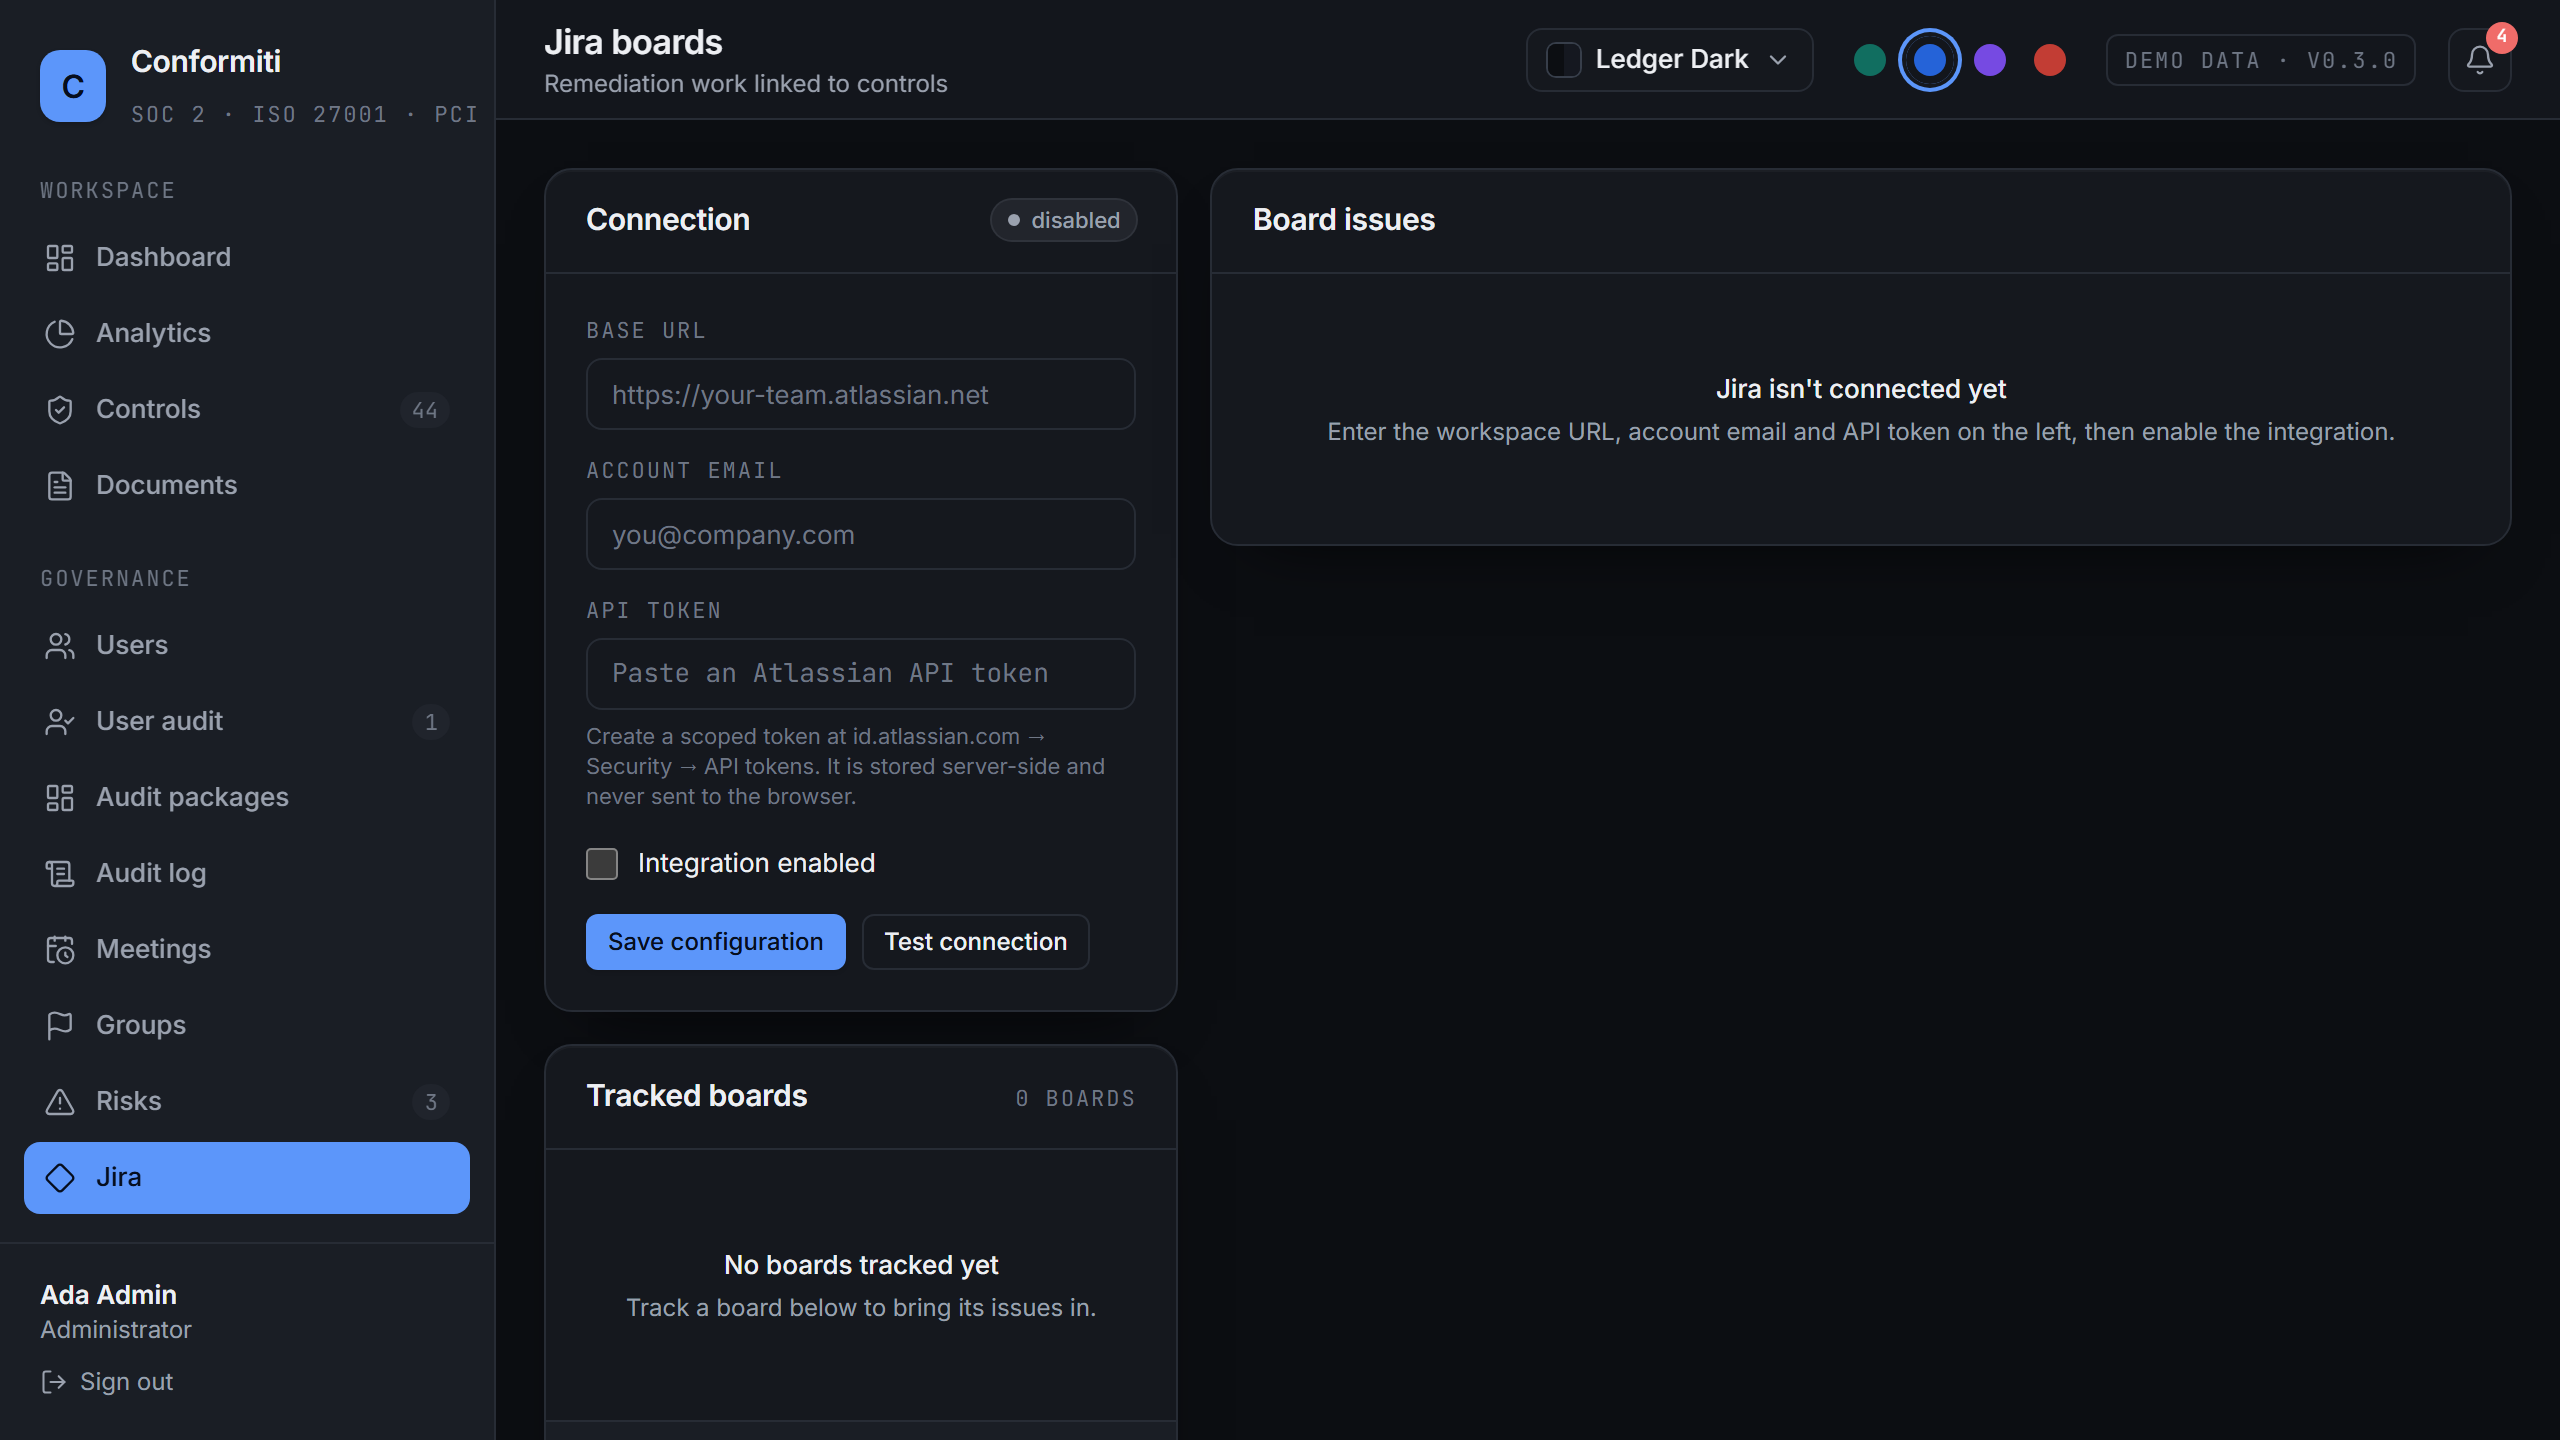
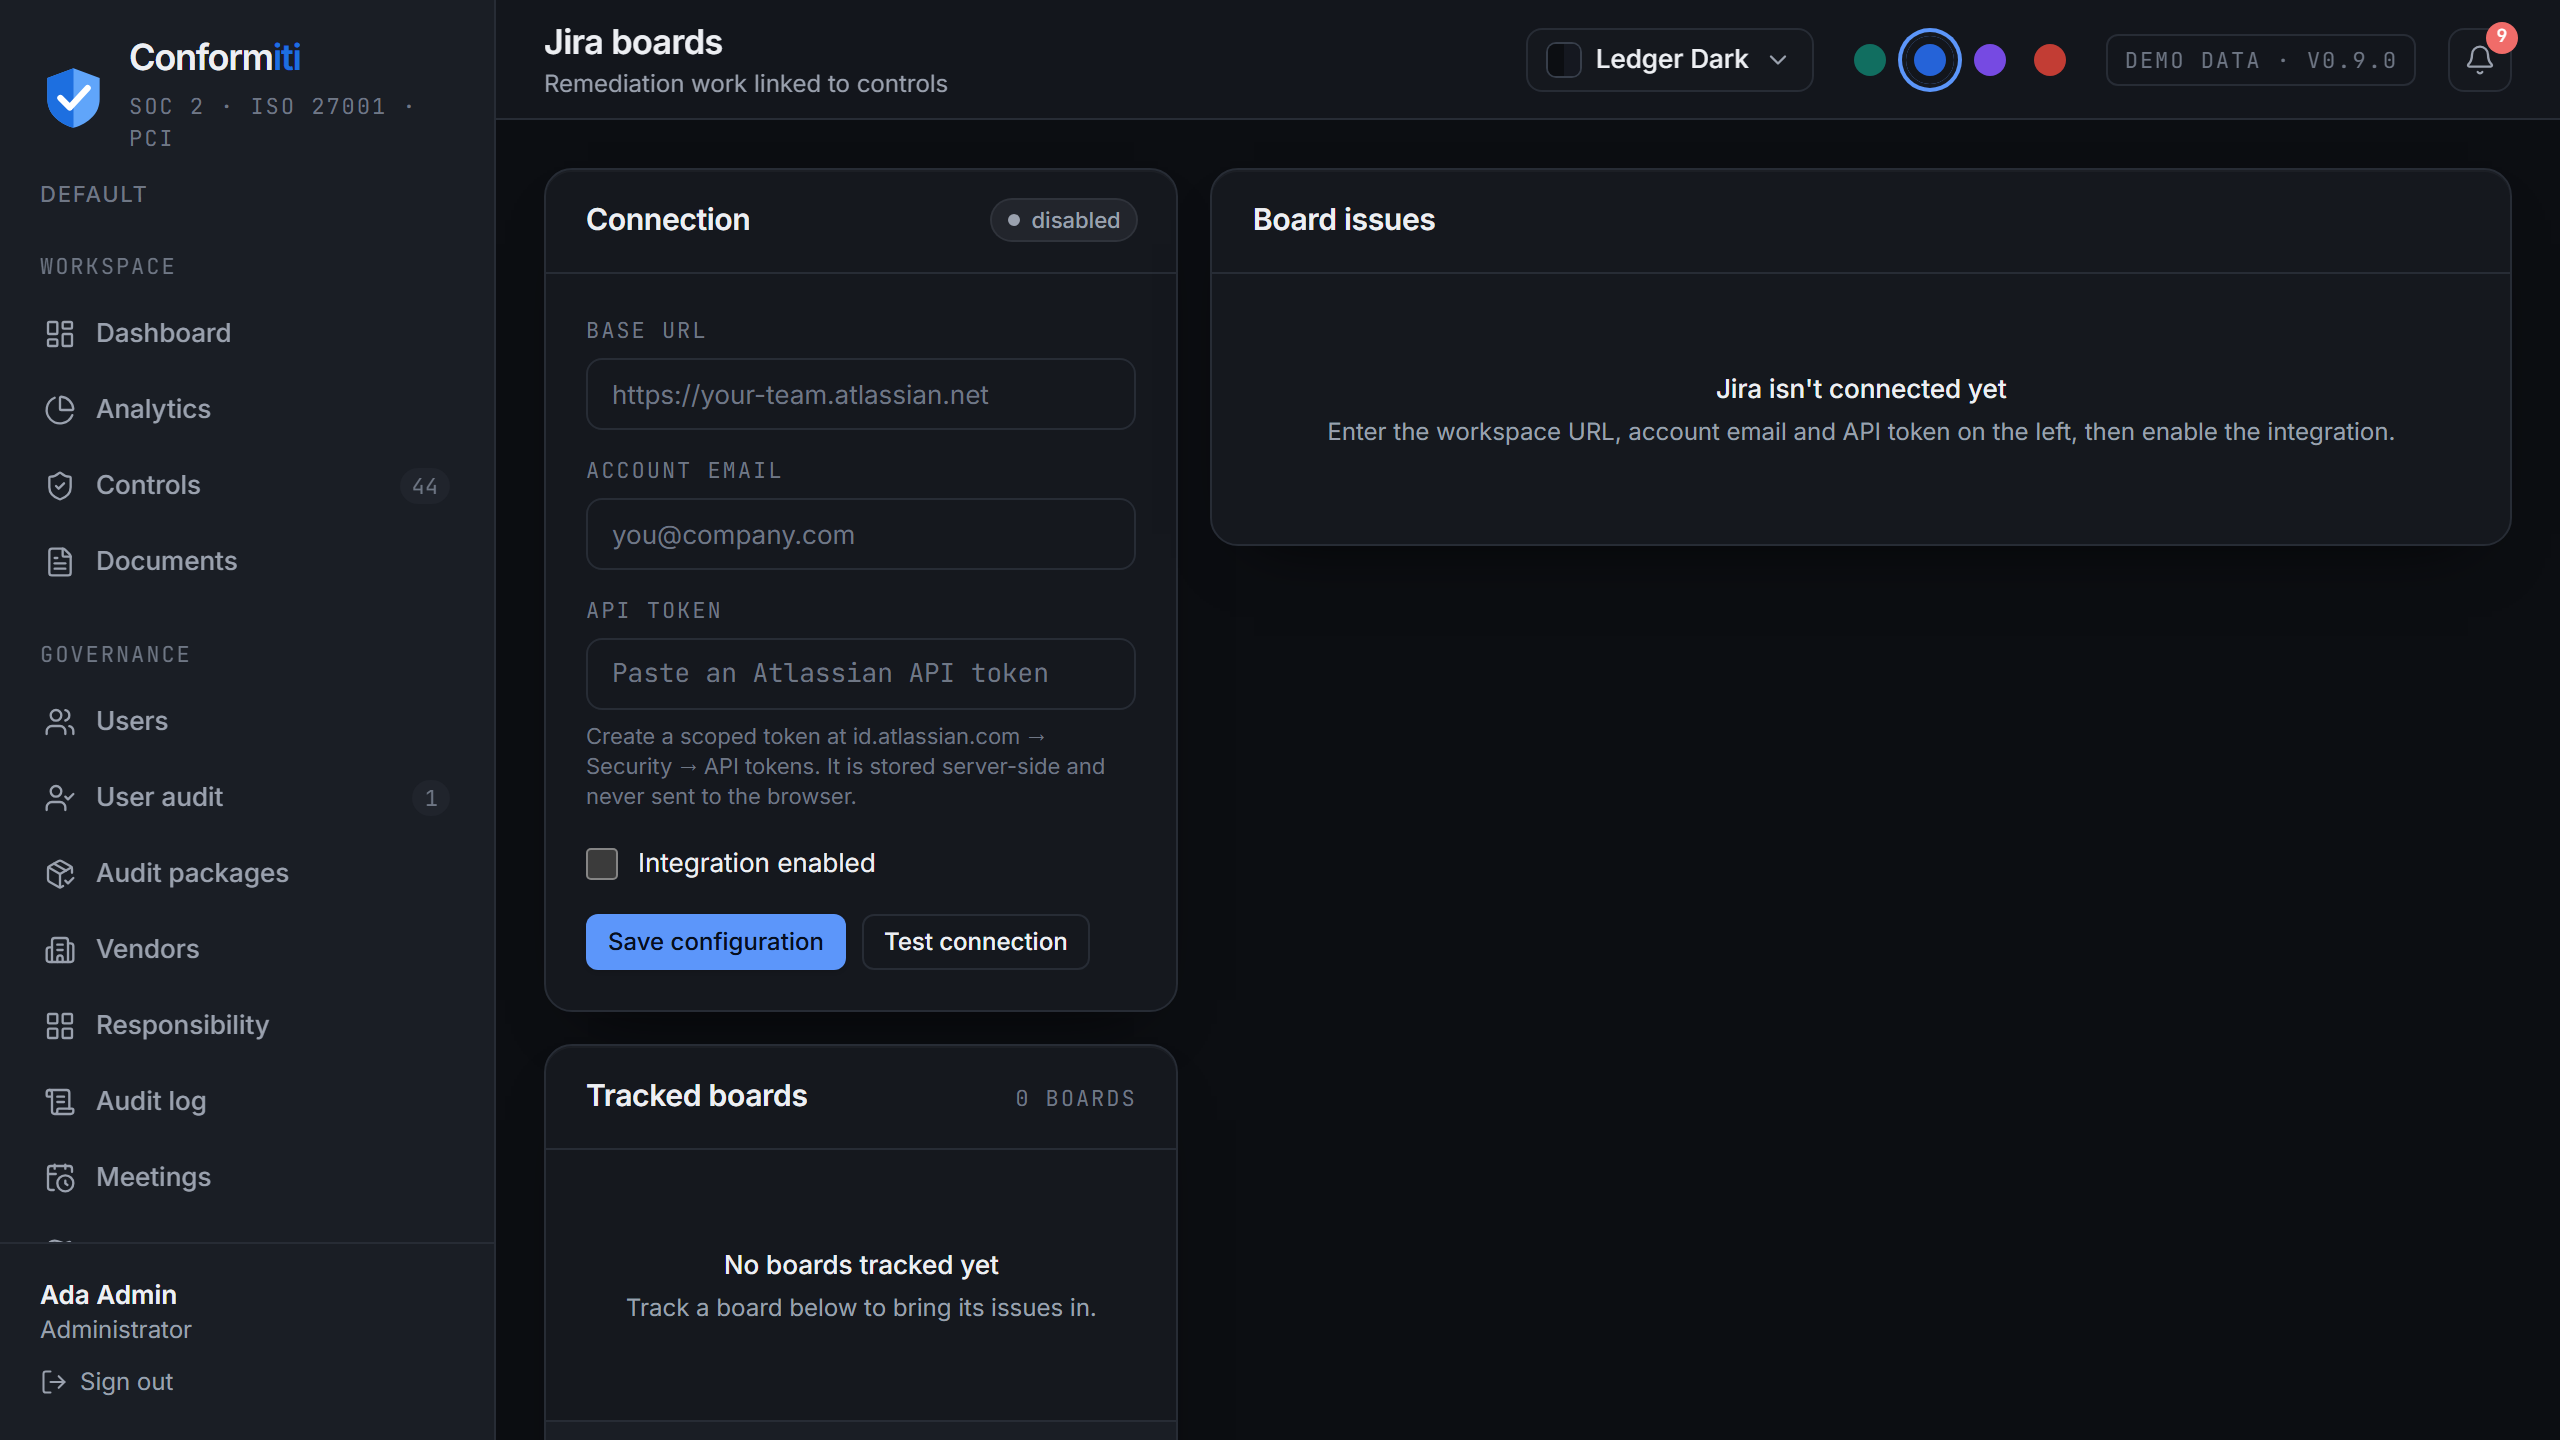
0.9.0 — README screenshots recaptured against the 0.9.0 UI, plus a workspace-switcher shot

diff --git a/e2e/tests/screenshots.spec.js b/e2e/tests/screenshots.spec.js
@@ -157,3 +157,34 @@ test("settings", async ({ page }) => {
   }
   await shot(page, "settings");
 });
+
+// The workspace switcher lives at the foot of Role & access, so this one is
+// captured where it sits rather than from the top of the page — the sidebar
+// and the top bar are both sticky, so the chrome stays in frame.
+test("workspaces", async ({ page }) => {
+  test.setTimeout(120_000);
+  await page.goto("/settings");
+  await settle(page, 1200);
+  await page
+    .getByRole("navigation", { name: "Settings sections" })
+    .getByRole("button", { name: "Role & access", exact: true })
+    .click();
+  const block = page.getByTestId("workspaces");
+  await expect(block).toBeVisible();
+
+  // A fresh install has only Default, and a switcher with nothing to switch
+  // to says nothing. Make the second organisation through the real form.
+  if (!(await block.getByText("northwind-health").count())) {
+    await page.locator("#new-workspace").fill("Northwind Health");
+    await page.getByRole("button", { name: "Create", exact: true }).click();
+    // The create seeds the framework library into the new workspace, which
+    // takes appreciably longer than an ordinary request.
+    await expect(block.getByText("northwind-health")).toBeVisible({ timeout: 90_000 });
+  }
+  await settle(page, 800);
+  // To the foot of the page rather than just far enough to reveal the block:
+  // the panel then ends at the bottom of the frame instead of being sliced.
+  await page.evaluate(() => window.scrollTo(0, document.body.scrollHeight));
+  await page.waitForTimeout(400);
+  await page.screenshot({ path: path.join(OUT, "workspaces.png") });
+});

diff --git a/README.md b/README.md
@@ -79,6 +79,14 @@ Local development without Docker (SQLite, console email) is one command too:
     <td align="center"><sub>Immutable trail of every change and sign-in</sub></td>
   </tr>
   <tr>
+    <td><img src="assets/screenshots/users.png" alt="People, roles and folder grants" width="440"></td>
+    <td><img src="assets/screenshots/workspaces.png" alt="Workspace switcher under Settings › Role &amp; access" width="440"></td>
+  </tr>
+  <tr>
+    <td align="center"><sub>Membership, roles, folder grants and who has an authenticator enrolled</sub></td>
+    <td align="center"><sub>One installation serving several organisations, scoped at the ORM and switched by a superuser</sub></td>
+  </tr>
+  <tr>
     <td><img src="assets/screenshots/vendors.png" alt="Vendor register and shared responsibility matrix" width="440"></td>
     <td><img src="assets/screenshots/responsibility-matrix.png" alt="RACI responsibility matrix" width="440"></td>
   </tr>
